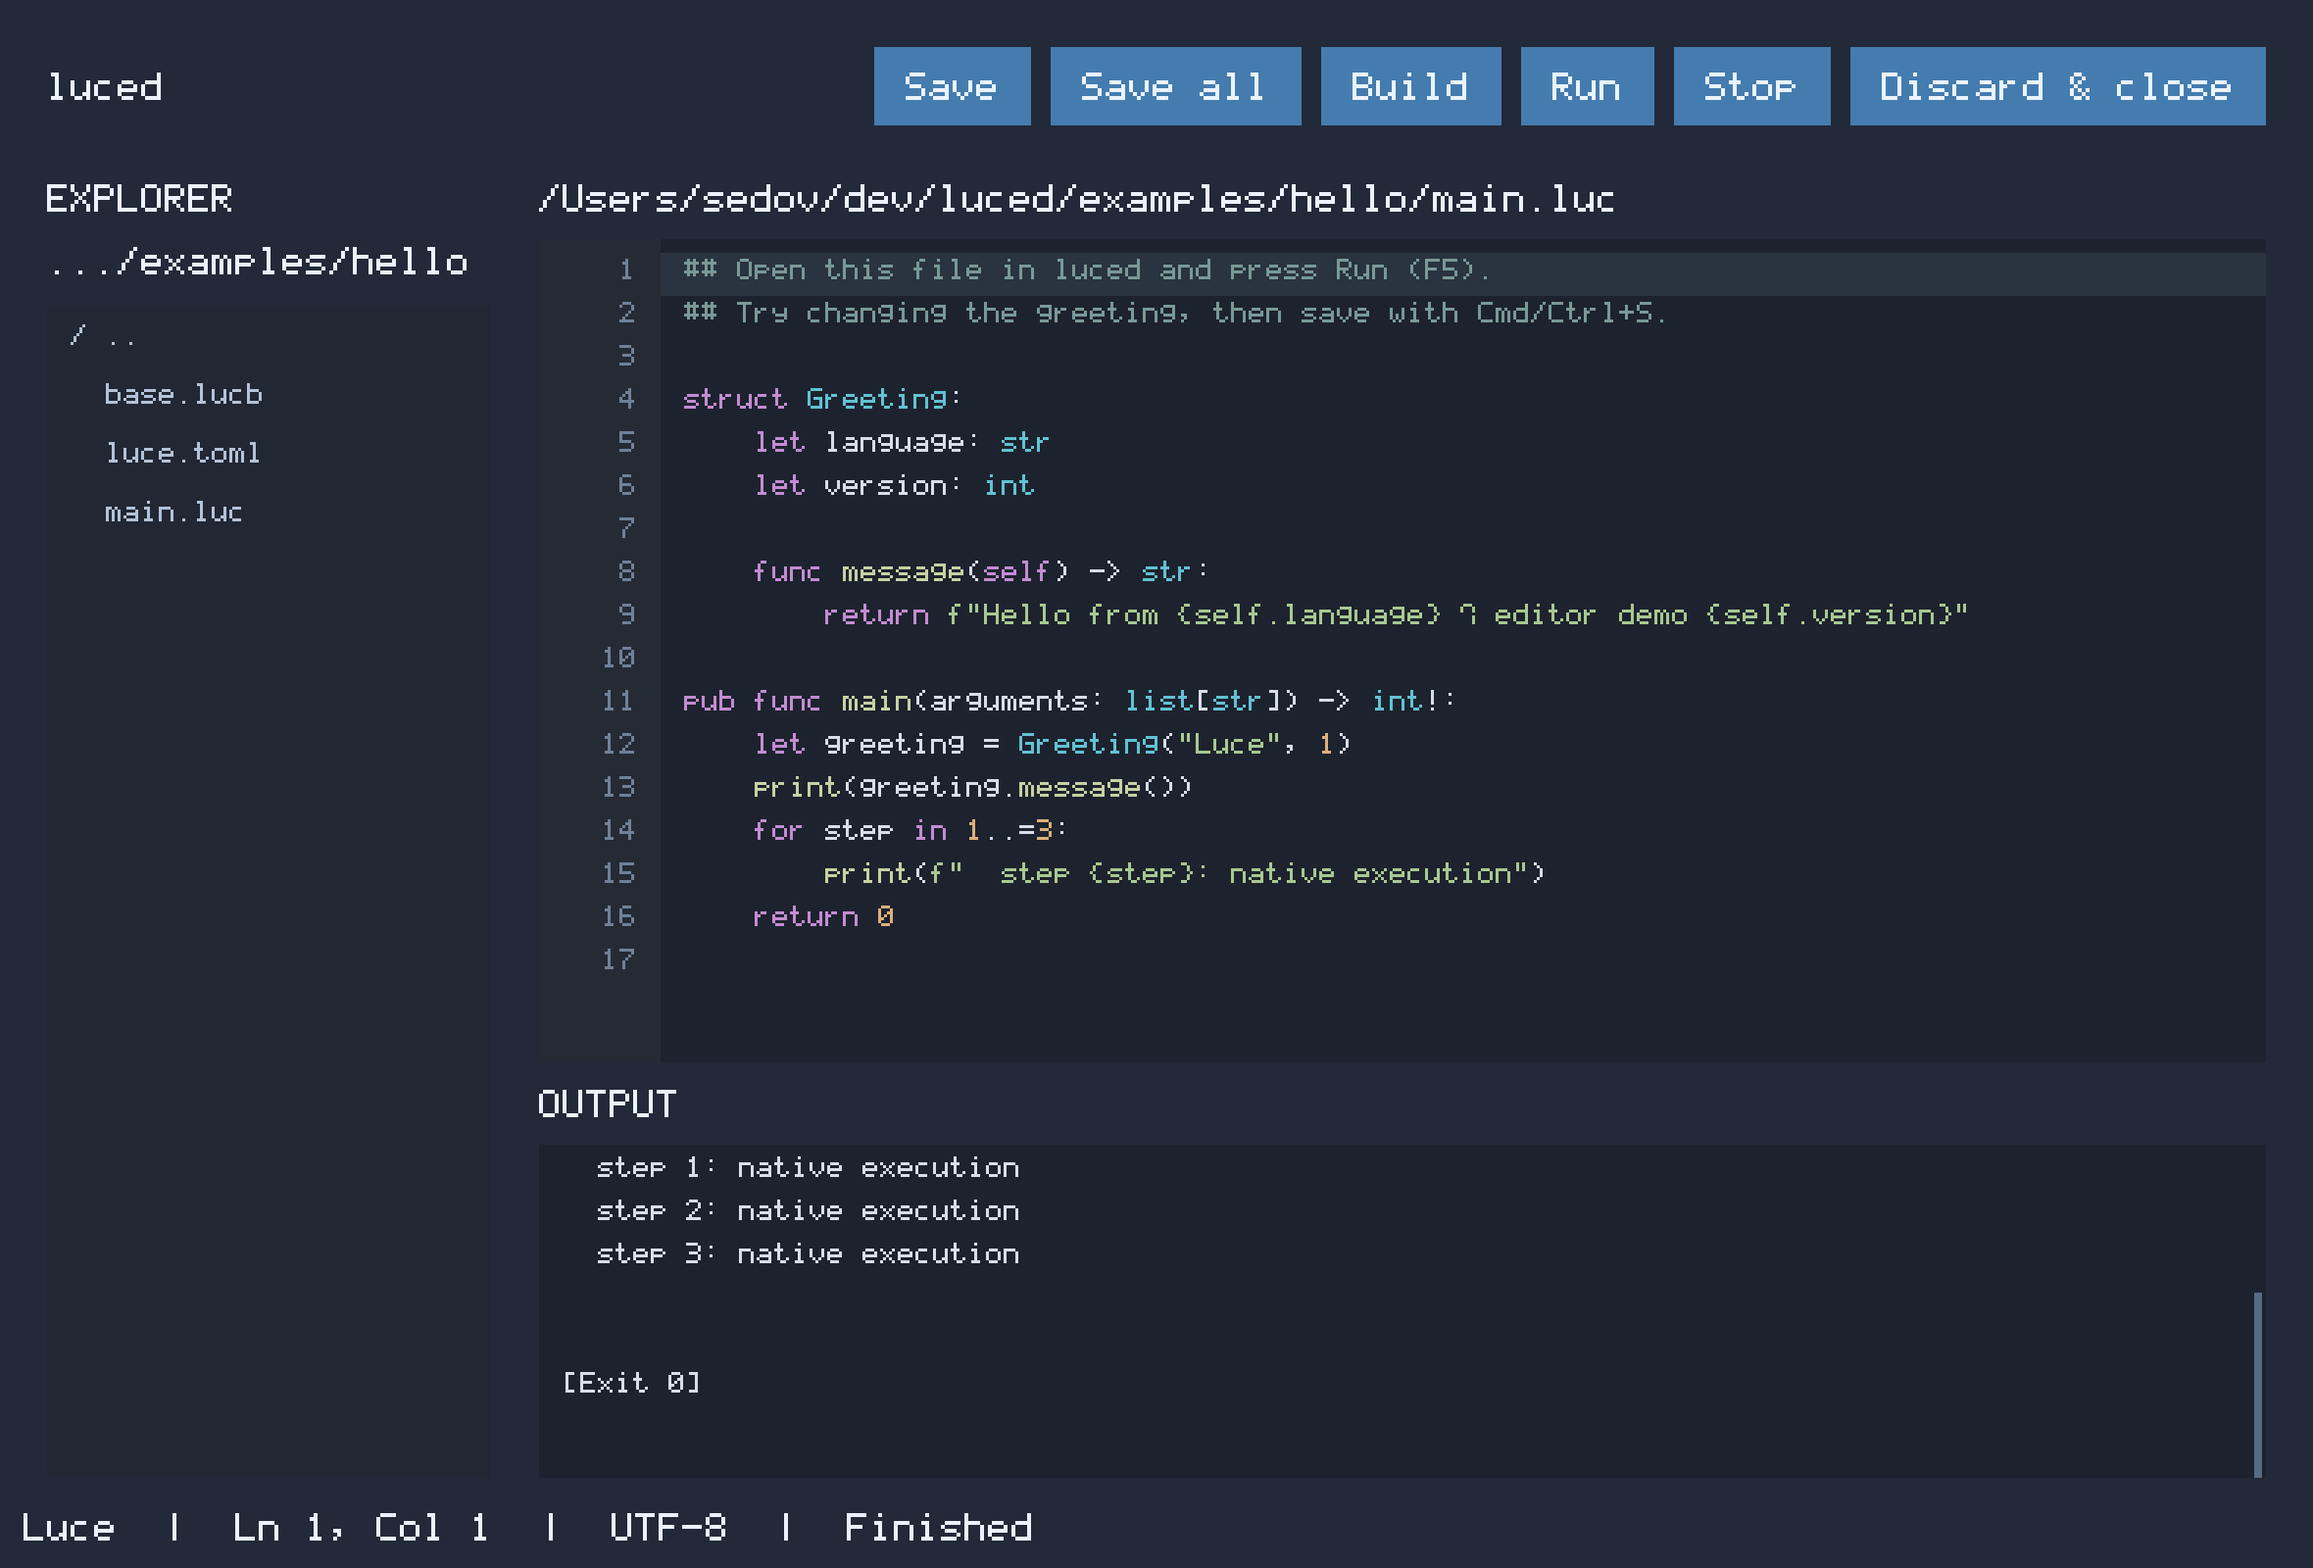
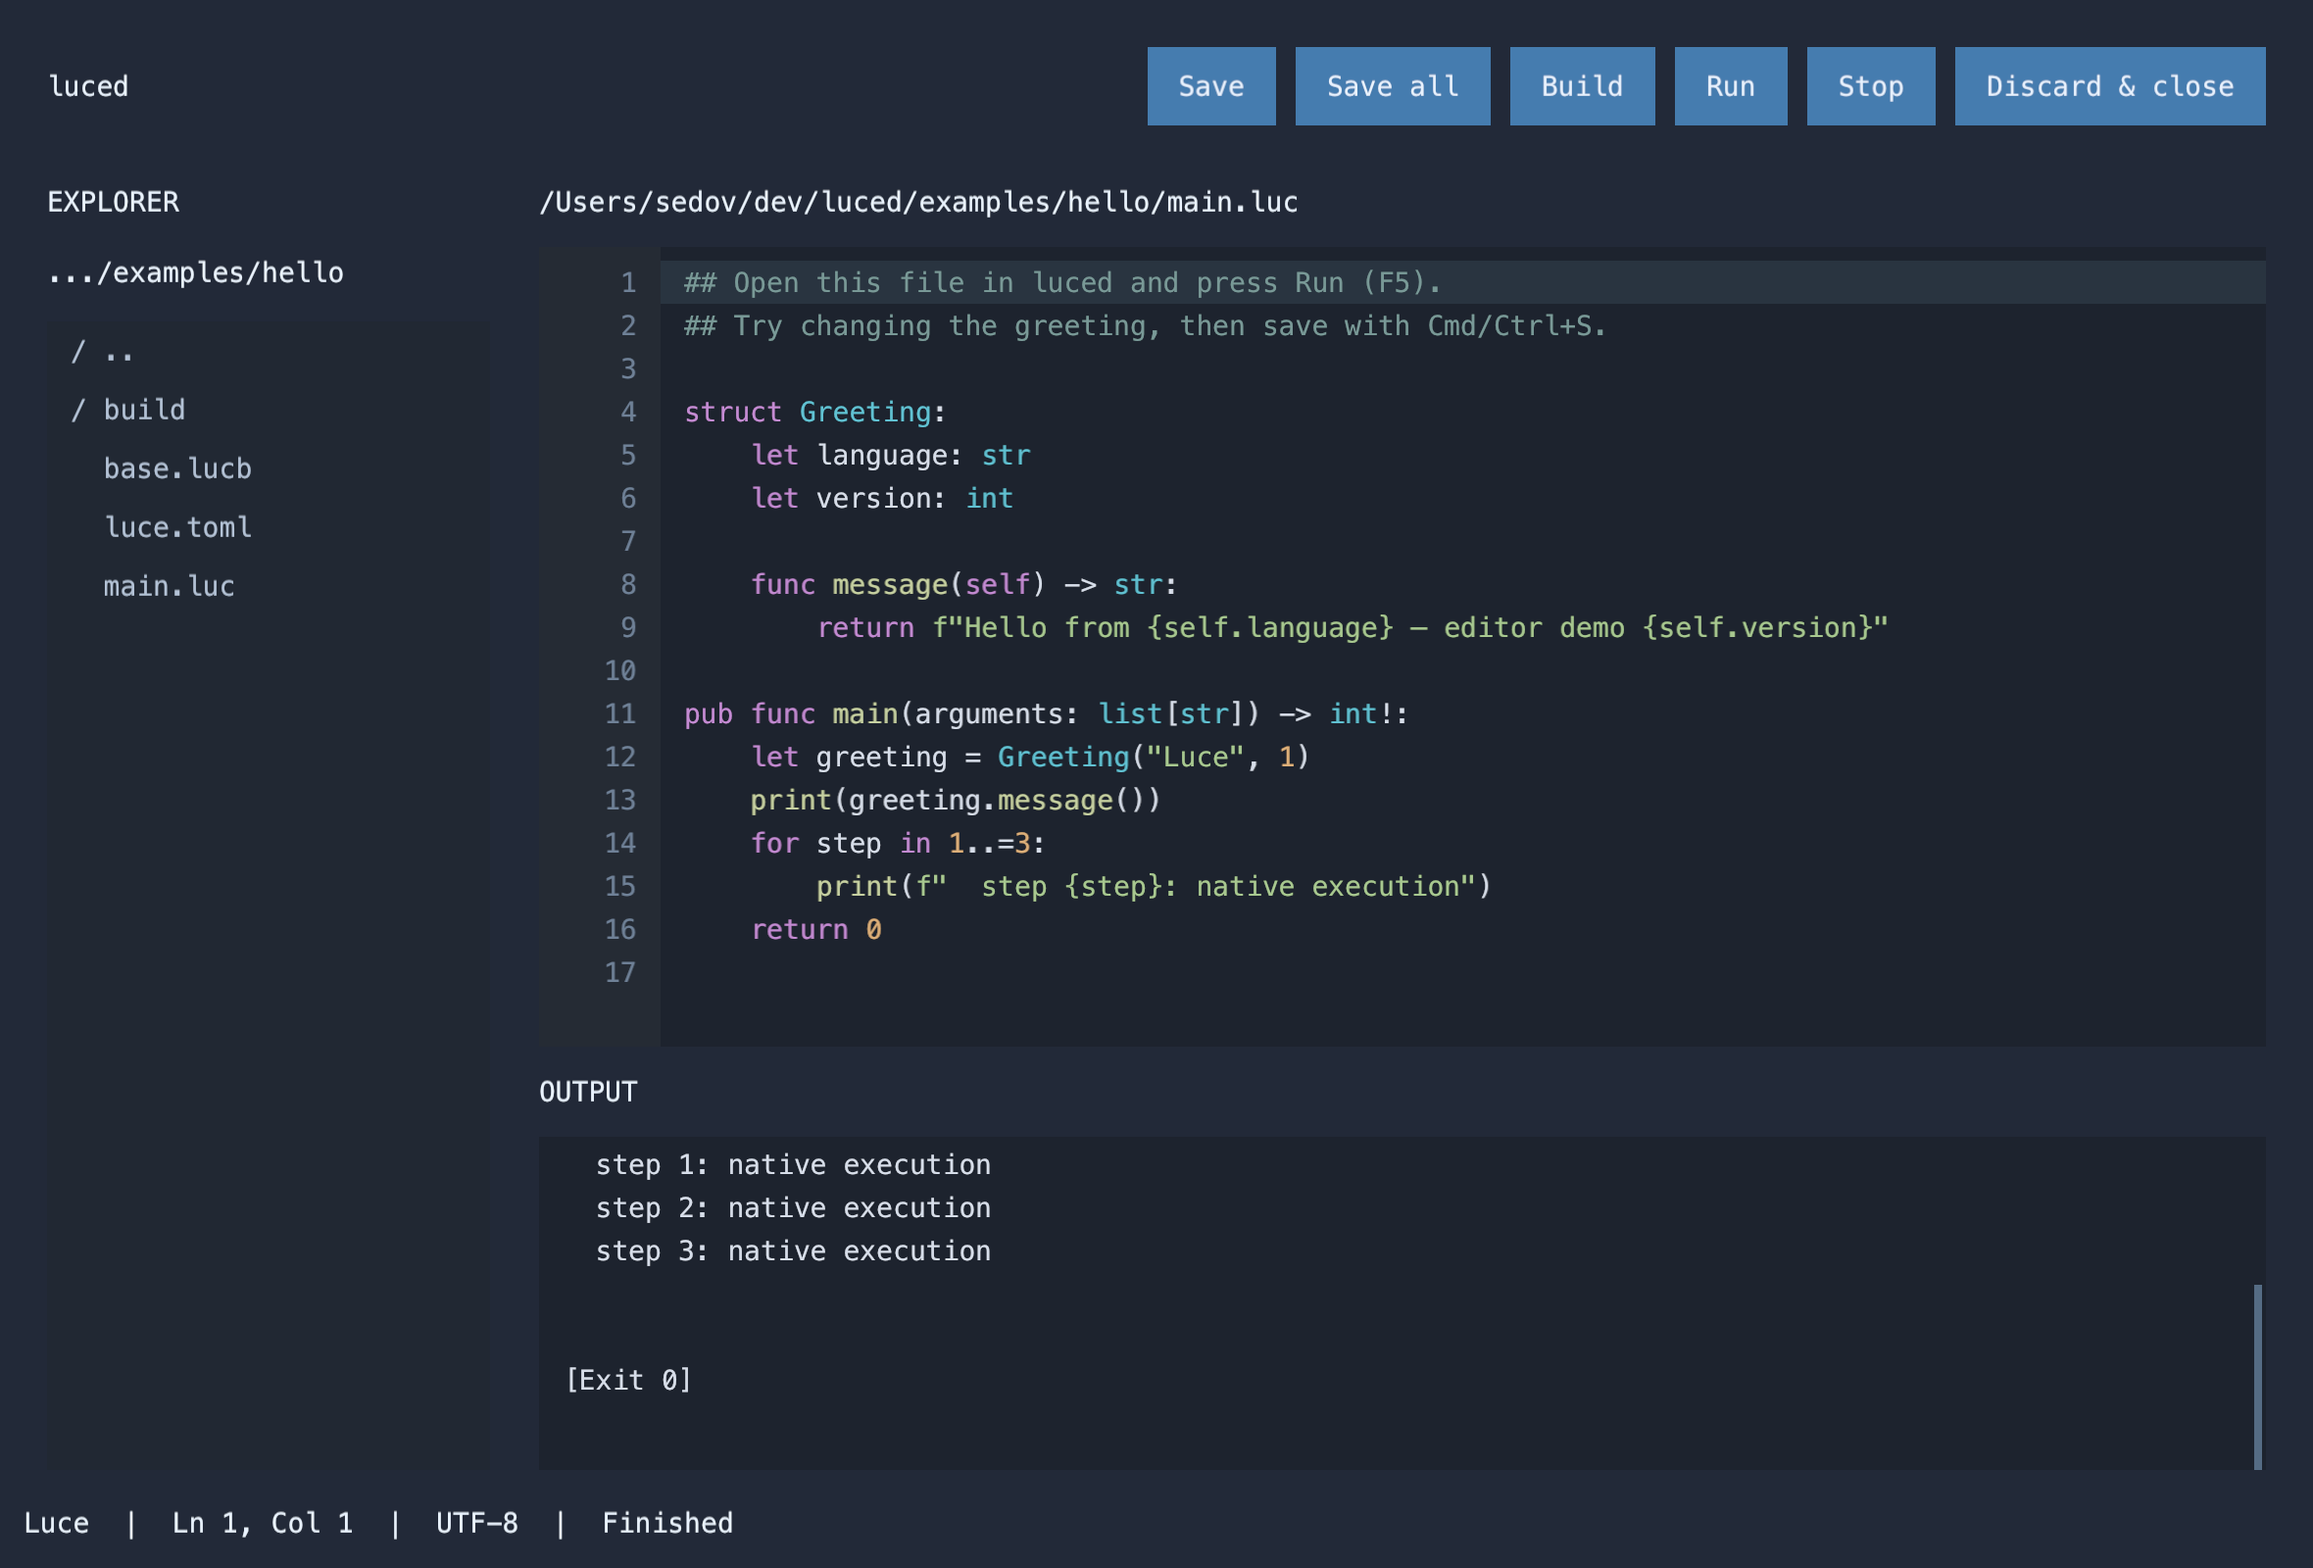
Use one antialiased monospace font throughout the editor

diff --git a/README.md b/README.md
@@ -78,8 +78,9 @@ The UI and standard-library repositories have their own control, ownership,
 input, pixel, file and process regression suites. CI runs on all three hosts.
 
 This is a proof of concept. The output pane displays captured compiler/program
-output; it is not an interactive PTY shell. The original bitmap monospace font
-covers printable ASCII; other Unicode is preserved but uses replacement glyphs.
+output; it is not an interactive PTY shell. Every control shares a 14-point monospace font, including toolbar buttons and
+output. `luce-ui` loads the native face and caches antialiased text at the display
+resolution (Menlo on macOS, Consolas on Windows, system monospace on Linux).
 Font shaping, grapheme navigation, accessibility, richer IME presentation,
 resizable splitters, search, completion, debugging and language-server integration
 remain future work. Files are bounded to 4 MiB on read and 1,048,576 editor

diff --git a/docs/PLAN.md b/docs/PLAN.md
@@ -31,3 +31,11 @@ Every build uses the native compiler and leaves only requested artifacts.
 - [x] Build and inspect the running editor, including its clean output directory.
 - [ ] Document setup, controls and proof-of-concept limits; commit coherent changes
   promptly and publish the finished sources.
+
+## Typography
+
+- [x] Load installed monospace fonts through `luce-ui.Font`.
+- [x] Share one 14-point font across all editor controls and open documents.
+- [x] Rasterize grayscale text at the display backing scale through standard GPU coverage.
+- [x] Verify font metrics, transparent backgrounds, ownership, real Metal pixels and editor behavior.
+- [x] Replace the preview with an actual capture of the updated editor.
